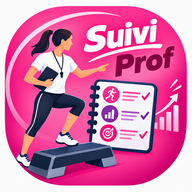
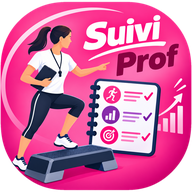
Icônes d'installation détourées (fond transparent) + maskable, manifeste corrigé
Claude-Session: https://claude.ai/code/session_01DWMzvDjuQqdn6i5FnQMur8

diff --git a/footer.js b/footer.js
@@ -1,0 +1,51 @@
+/* footer.js — bandeau commun « VinZ Neuron » : logo, politique de confidentialité, contact, liens.
+   À inclure en fin de page :  <script src="footer.js" data-pdc="prof" defer></script>   (data-pdc="eleve" pour les applis élèves)
+   - Fonctionne seul (logo intégré, hors ligne) ; les liens de la politique de confidentialité pointent vers le portail concerné,
+     ce qui la rend accessible même si l'application est installée en dehors du portail.
+   - Shadow DOM : le style de l'application n'est pas affecté et ne l'affecte pas. Masqué à l'impression et dans les iframes.
+   - Option : <div id="eps-bandeau-ancre"></div> dans la page place le bandeau à cet endroit au lieu de la fin du <body>. */
+(function(){
+if(window.top!==window||document.getElementById('eps-bandeau'))return;
+var sc=document.currentScript,pdc=(sc&&sc.dataset.pdc)||'prof';
+var BASE={prof:'https://vinztoc.github.io/Mes_Apps_EPS/',eleve:'https://vinztoc.github.io/Applis_EPS_Eleves/'};
+var base=BASE[pdc]||BASE.prof,loc=location.origin+location.pathname,
+    dedans=loc.indexOf(base)===0&&/^(index\.html|confidentialite\.html|contact\.html)?$/.test(loc.slice(base.length)); /* dans le portail lui-même : liens relatifs, même onglet */
+var u=function(p){return dedans?p:base+p},tg=dedans?'':' target="_blank" rel="noopener"';
[1 lines of base64/hex data omitted]
+var ico={web:'<circle cx="12" cy="12" r="9"/><path d="M3 12h18M12 3c3.2 3 3.2 15 0 18M12 3c-3.2 3-3.2 15 0 18"/>',
+ ig:'<rect x="3" y="3" width="18" height="18" rx="5"/><circle cx="12" cy="12" r="4"/><circle cx="17.3" cy="6.7" r="1" fill="currentColor" stroke="none"/>',
+ yt:'<rect x="2" y="5" width="20" height="14" rx="4.5"/><path d="M10 9.2v5.6l5-2.8z" fill="currentColor"/>'};
+var ic=function(href,k,t,c){return '<a class="ic '+c+'" href="'+href+'" target="_blank" rel="noopener noreferrer" aria-label="'+t+'" title="'+t+'"><svg viewBox="0 0 24 24" aria-hidden="true" focusable="false">'+ico[k]+'</svg></a>'};
+function monter(){
+ var h=document.createElement('div');h.id='eps-bandeau';h.setAttribute('role','contentinfo');
+ var r=h.attachShadow({mode:'open'});
+ r.innerHTML='<style>'+
+  ':host{display:block;margin:14px 0 0;padding:0 8px 8px;box-sizing:border-box}'+
+  '@media print{:host{display:none}}'+
+  'footer{max-width:980px;margin:0 auto;display:flex;align-items:center;justify-content:center;gap:16px;padding:8px 18px;box-sizing:border-box;background:rgba(24,27,38,.94);color:#c9d1e3;border:1px solid rgba(255,255,255,.12);border-radius:14px;font:600 13px/1.3 system-ui,-apple-system,"Segoe UI",Roboto,sans-serif;box-shadow:0 2px 10px rgba(0,0,0,.18)}'+
+  'a{color:inherit;text-decoration:none}a.t{color:#ffb35c;text-decoration:underline;text-underline-offset:2px}a.t:hover{color:#ffd199}'+
+  'img{display:block;width:76px;height:76px;object-fit:contain;border-radius:16px;box-shadow:0 3px 10px rgba(0,0,0,.45)}'+
+  '.l{display:block;flex:none}.c{display:flex;flex-direction:column;gap:8px;align-items:flex-start;min-width:0}.m{display:flex;flex-wrap:wrap;gap:4px 16px}.n{opacity:.75;font-weight:700}.s{display:flex;align-items:center;gap:8px;flex-wrap:wrap}'+
+  '.ic{display:inline-flex;width:28px;height:28px;align-items:center;justify-content:center;border-radius:9px;color:#fff;background:linear-gradient(#2f9bff,#0a4fd0)}.ic.i{background:linear-gradient(#c040ff,#6a0fd0)}.ic.y{background:linear-gradient(#ff4d4d,#c00000)}'+
+  'svg{width:16px;height:16px;fill:none;stroke:currentColor;stroke-width:2;stroke-linecap:round;stroke-linejoin:round}'+
+  'a:focus-visible{outline:2px solid #ffb35c;outline-offset:2px;border-radius:6px}'+
+  '@media(max-width:520px){img{width:64px;height:64px;border-radius:14px}footer{gap:12px;padding:8px 12px}.n{display:none}}'+
+  '</style><footer>'+
+  '<a class="l" href="http://vinzneuron.free.fr/" target="_blank" rel="noopener noreferrer" title="VinZ Neuron"><img src="'+LOGO+'" alt="Logo VinZ Neuron" width="76" height="76"></a>'+
+  '<div class="c"><div class="m"><a class="t" href="'+u('confidentialite.html')+'"'+tg+'>Politique de confidentialité</a>'+
+  '<a class="t" href="'+u('contact.html')+'"'+tg+'>Contact</a></div>'+
+  '<div class="s">'+ic('http://vinzneuron.free.fr/','web','Site web','')+ic('https://www.instagram.com/vinzneuron/','ig','Instagram','i')+ic('https://www.youtube.com/@vinz_neuron','yt','YouTube','y')+'<span class="n">VinZ Neuron</span></div></div>'+
+  '</footer>';
+ var a=document.getElementById('eps-bandeau-ancre');
+ if(a)a.replaceWith(h);else document.body.appendChild(h);
+ /* barre fixe en bas de l'écran (onglets de l'appli) : on laisse la place pour que le bandeau reste lisible */
+ function place(){var H=0,vh=innerHeight,vw=innerWidth;
+  var els=document.body.querySelectorAll('nav,div,footer,header,section,ul');
+  for(var i=0;i<els.length;i++){var e=els[i];if(e===h||h.contains(e))continue;var cs=getComputedStyle(e);if(cs.position!=='fixed'||cs.display==='none'||cs.visibility==='hidden')continue;
+   var r=e.getBoundingClientRect();if(r.height>0&&r.height<=150&&r.width>=vw*.6&&r.bottom>=vh-2&&r.top>vh*.5)H=Math.max(H,r.height)}
+  h.style.paddingBottom='8px';var d=document.documentElement.scrollHeight-(scrollY+h.getBoundingClientRect().bottom);
+  h.style.paddingBottom=(8+Math.max(0,Math.ceil(H-d)))+'px'}
+ setTimeout(place,700);addEventListener('resize',place);addEventListener('load',function(){setTimeout(place,300)});
+}
+if(document.body)monter();else document.addEventListener('DOMContentLoaded',monter);
+})();

diff --git a/nouveautes.js b/nouveautes.js
@@ -1,0 +1,95 @@
+/* Fenêtre « Nouveautés » : s'affiche une seule fois après chaque mise à jour de l'application.
+   Autonome (aucune dépendance), isolée du style de l'appli (Shadow DOM).
+   Lit nouveautes.json (à côté de ce fichier) : [{ "v":"1.2.0", "date":"2026-11-23", "titre":"(facultatif)", "items":["…"] }, …]
+   La version courante = la plus haute « v » du fichier. Pour une nouvelle version : ajouter une entrée au début du fichier. */
+(function () {
+  'use strict';
+  var script = document.currentScript, base = script && script.src ? script.src : location.href;
+  var seg = (location.pathname.split('/')[1] || 'app').toLowerCase();
+  var KEY = 'EPS_NV_' + seg;
+
+  function cmp(a, b) {
+    a = String(a).split('.').map(Number); b = String(b).split('.').map(Number);
+    for (var i = 0; i < 3; i++) { var d = (a[i] || 0) - (b[i] || 0); if (d) return d; }
+    return 0;
+  }
+  function lire() { try { return localStorage.getItem(KEY); } catch (e) { return null; } }
+  function ecrire(v) { try { localStorage.setItem(KEY, v); } catch (e) {} }
+
+  var cache = null;
+  function charger() {
+    if (!cache) {
+      cache = fetch(new URL('nouveautes.json', base).href, { cache: 'no-cache' })
+        .then(function (r) { if (!r.ok) throw 0; return r.json(); })
+        .then(function (L) {
+          L = (Array.isArray(L) ? L : []).filter(function (n) { return n && n.v; });
+          return L.sort(function (a, b) { return cmp(b.v, a.v); });
+        })
+        .catch(function () { return []; });
+    }
+    return cache;
+  }
+
+  var CSS = '' +
+    '.ov{position:fixed;inset:0;z-index:2147483000;background:rgba(0,0,0,.72);display:flex;align-items:center;justify-content:center;padding:16px;backdrop-filter:blur(4px);-webkit-backdrop-filter:blur(4px);font-family:system-ui,-apple-system,"Segoe UI",Roboto,sans-serif}' +
+    '.fc{position:relative;box-sizing:border-box;width:100%;max-width:520px;max-height:86vh;overflow:auto;background:#0f1830;color:#eaf0ff;border:1px solid rgba(255,255,255,.18);border-radius:22px;padding:22px 22px 20px;box-shadow:0 20px 60px rgba(0,0,0,.6);line-height:1.45}' +
+    'h3{margin:0 40px 10px 0;font-size:1.25rem;color:#fff}' +
+    'h4{margin:16px 0 6px;font-size:1.02rem;color:#ffb347}h4 small{font-weight:500;opacity:.7;color:#eaf0ff}' +
+    'ul{margin:0;padding-left:20px}li{margin:5px 0}' +
+    '.x{position:absolute;top:12px;right:12px;width:34px;height:34px;border:0;border-radius:50%;background:rgba(255,255,255,.14);color:#fff;font-size:1rem;cursor:pointer}' +
+    '.ok{display:block;margin:18px auto 0;border:0;border-radius:14px;padding:12px 26px;font:inherit;font-weight:700;color:#fff;cursor:pointer;background:linear-gradient(135deg,#2f9bff,#0b57d0);box-shadow:0 6px 18px rgba(47,155,255,.35)}' +
+    '.x:focus-visible,.ok:focus-visible{outline:3px solid #ffb347;outline-offset:2px}';
+
+  var hote = null;
+  function fermer() {
+    if (hote) { hote.remove(); hote = null; }
+    document.removeEventListener('keydown', touche, true);
+    charger().then(function (L) { if (L.length) ecrire(L[0].v); });
+  }
+  function touche(e) { if (e.key === 'Escape') fermer(); }
+
+  function montrer(liste) {
+    if (!liste.length || hote) return;
+    hote = document.createElement('div');
+    var ombre = hote.attachShadow({ mode: 'open' });
+    var st = document.createElement('style'); st.textContent = CSS; ombre.appendChild(st);
+    var ov = document.createElement('div'); ov.className = 'ov';
+    var fc = document.createElement('div'); fc.className = 'fc'; fc.setAttribute('role', 'dialog'); fc.setAttribute('aria-label', 'Nouveautés');
+    var x = document.createElement('button'); x.className = 'x'; x.type = 'button'; x.textContent = '✕'; x.setAttribute('aria-label', 'Fermer');
+    var h = document.createElement('h3'); h.textContent = '✨ Nouveautés';
+    fc.appendChild(x); fc.appendChild(h);
+    liste.forEach(function (n) {
+      var t = document.createElement('h4');
+      t.textContent = n.titre || ('Version ' + n.v);
+      if (n.date && !n.titre) {
+        var d = new Date(n.date); var s = document.createElement('small');
+        if (!isNaN(d)) { s.textContent = ' · ' + d.toLocaleDateString('fr-FR'); t.appendChild(s); }
+      }
+      var ul = document.createElement('ul');
+      (n.items || []).forEach(function (it) { var li = document.createElement('li'); li.textContent = it; ul.appendChild(li); });
+      fc.appendChild(t); fc.appendChild(ul);
+    });
+    var ok = document.createElement('button'); ok.className = 'ok'; ok.type = 'button'; ok.textContent = "J'ai compris";
+    fc.appendChild(ok); ov.appendChild(fc); ombre.appendChild(ov);
+    x.onclick = ok.onclick = fermer;
+    ov.onclick = function (e) { if (e.target === ov) fermer(); };
+    document.addEventListener('keydown', touche, true);
+    (document.body || document.documentElement).appendChild(hote);
+    try { ok.focus({ preventScroll: true }); } catch (e) {}
+  }
+
+  function auto() {
+    charger().then(function (L) {
+      if (!L.length) return;
+      var cur = L[0].v, vue = lire();
+      if (!vue) montrer(L.slice(0, 1));                                   /* première ouverture : dernière version seulement */
+      else if (cmp(cur, vue) > 0) montrer(L.filter(function (n) { return cmp(n.v, vue) > 0; }));
+    });
+  }
+
+  /* Réouverture manuelle (depuis la console ou un bouton de l'appli) : window.voirNouveautes() */
+  window.voirNouveautes = function () { return charger().then(function (L) { montrer(L.slice(0, 4)); }); };
+
+  if (document.readyState === 'complete') setTimeout(auto, 400);
+  else window.addEventListener('load', function () { setTimeout(auto, 400); });
+})();

diff --git a/sw.js b/sw.js
@@ -1,4 +1,10 @@
-const V='step-prof-v1',A=['./','index.html', 'eps-core.js', 'css/style.css','js/common.js','js/prof.js','manifest.webmanifest','icons/icon-192.png','icons/logo.png'];
-self.addEventListener('install',e=>e.waitUntil(caches.open(V).then(c=>c.addAll(A)).then(()=>self.skipWaiting())));
-self.addEventListener('activate',e=>e.waitUntil(caches.keys().then(k=>Promise.all(k.filter(x=>x!=V).map(x=>caches.delete(x)))).then(()=>clients.claim())));
-self.addEventListener('fetch',e=>{if(e.request.method!='GET')return;e.respondWith(fetch(e.request).then(r=>{const c=r.clone();caches.open(V).then(x=>x.put(e.request,c));return r}).catch(()=>caches.match(e.request,{ignoreSearch:true})))});
+const V='step-prof-v2',F=['footer.js','nouveautes.js','nouveautes.json','./', 'index.html', 'eps-core.js', 'css/style.css', 'js/common.js', 'js/prof.js', 'manifest.webmanifest', 'icons/icon-192.png', 'icons/icon-512.png', 'icons/Icon-stepeps-prof.png'];
+const T=2500; // si le réseau ne répond pas en 2,5 s (wifi sans Internet, borne coupée…), on sert tout de suite la copie hors ligne
+const net=r=>new Promise((ok,ko)=>{const t=setTimeout(()=>ko(new Error('timeout')),T);fetch(r,{cache:'no-cache'}).then(x=>{clearTimeout(t);ok(x)},e=>{clearTimeout(t);ko(e)})});
+// Installation : chaque fichier est chargé séparément ; un fichier manquant ne bloque plus l'installation (donc le mode hors ligne).
+self.addEventListener('install',e=>{e.waitUntil(caches.open(V).then(c=>Promise.all(F.map(u=>fetch(u,{cache:'reload'}).then(r=>r.ok&&c.put(u,r)).catch(()=>{})))));self.skipWaiting()});
+self.addEventListener('activate',e=>{e.waitUntil(caches.keys().then(k=>Promise.all(k.filter(x=>x.startsWith('step-prof-')&&x!==V).map(x=>caches.delete(x)))));self.clients.claim()});
+// Réseau d'abord (dernière version en ligne), copie locale en secours (hors ligne ou réseau trop lent).
+self.addEventListener('fetch',e=>{const q=e.request;if(q.method!=='GET')return;
+ e.respondWith(net(q).then(r=>{if(r.ok){const c=r.clone();caches.open(V).then(x=>x.put(q,c))}return r})
+  .catch(()=>caches.match(q,{ignoreSearch:true}).then(h=>h||(q.mode==='navigate'?caches.match('index.html').then(x=>x||caches.match('./')):undefined)||Response.error())))});

diff --git a/index.html b/index.html
@@ -1,5 +1,5 @@
 <!DOCTYPE html><html lang="fr"><head><meta charset="utf-8"><meta name="viewport" content="width=device-width,initial-scale=1,viewport-fit=cover"><title>Step EPS – Suivi enseignant</title>
-<meta name="theme-color" content="#5b21b6"><link rel="manifest" href="manifest.webmanifest"><link rel="icon" href="icons/icon-192-stepeps-prof.png"><link rel="stylesheet" href="css/style.css"></head>
+<meta name="theme-color" content="#5b21b6"><link rel="apple-touch-icon" href="icons/icon-maskable-192.png"><link rel="manifest" href="manifest.webmanifest"><link rel="icon" href="icons/icon-192-stepeps-prof.png"><link rel="stylesheet" href="css/style.css"></head>
 <body style="padding-bottom:20px"><header><img src="icons/icon-stepeps-prof.png" alt="Logo Step EPS"><div><h1>STEP EPS</h1><p>Suivi enseignant</p></div></header>
 <main><section class="card"><h2>Importer</h2><div class="drop" id="dz" tabindex="0"><b>Dépose ici les .csv des élèves</b> et la liste de classe<br><small>Le type de fichier est reconnu automatiquement (Pronote, Mes Apps EPS ou carnet élève)</small></div>
 <input type="file" id="f" accept=".csv,text/csv" multiple hidden><button class="alt" id="sc">Récupérer la liste depuis Mes Apps EPS</button> <small id="ls"></small></section>
@@ -8,4 +8,5 @@
 <button id="ex">Exporter le compilé .csv</button> <button class="alt" id="ps">Envoyer le résumé vers Mes Apps EPS</button> <button class="alt" id="rz">Effacer les séances</button></section>
 <section class="card" id="dt" aria-live="polite" hidden></section>
 <p style="text-align:center"><small>Données stockées uniquement sur cet appareil · <a href="../Mes_Apps_EPS/">Mes Apps EPS</a></small></p></main>
-<script src="js/common.js"></script><script src="eps-core.js"></script><script src="js/prof.js"></script></body></html>
+<script src="js/common.js"></script><script src="eps-core.js"></script><script src="js/prof.js"></script><script src="nouveautes.js" defer></script>
+<script src="footer.js" data-pdc="prof" defer></script></body></html>
